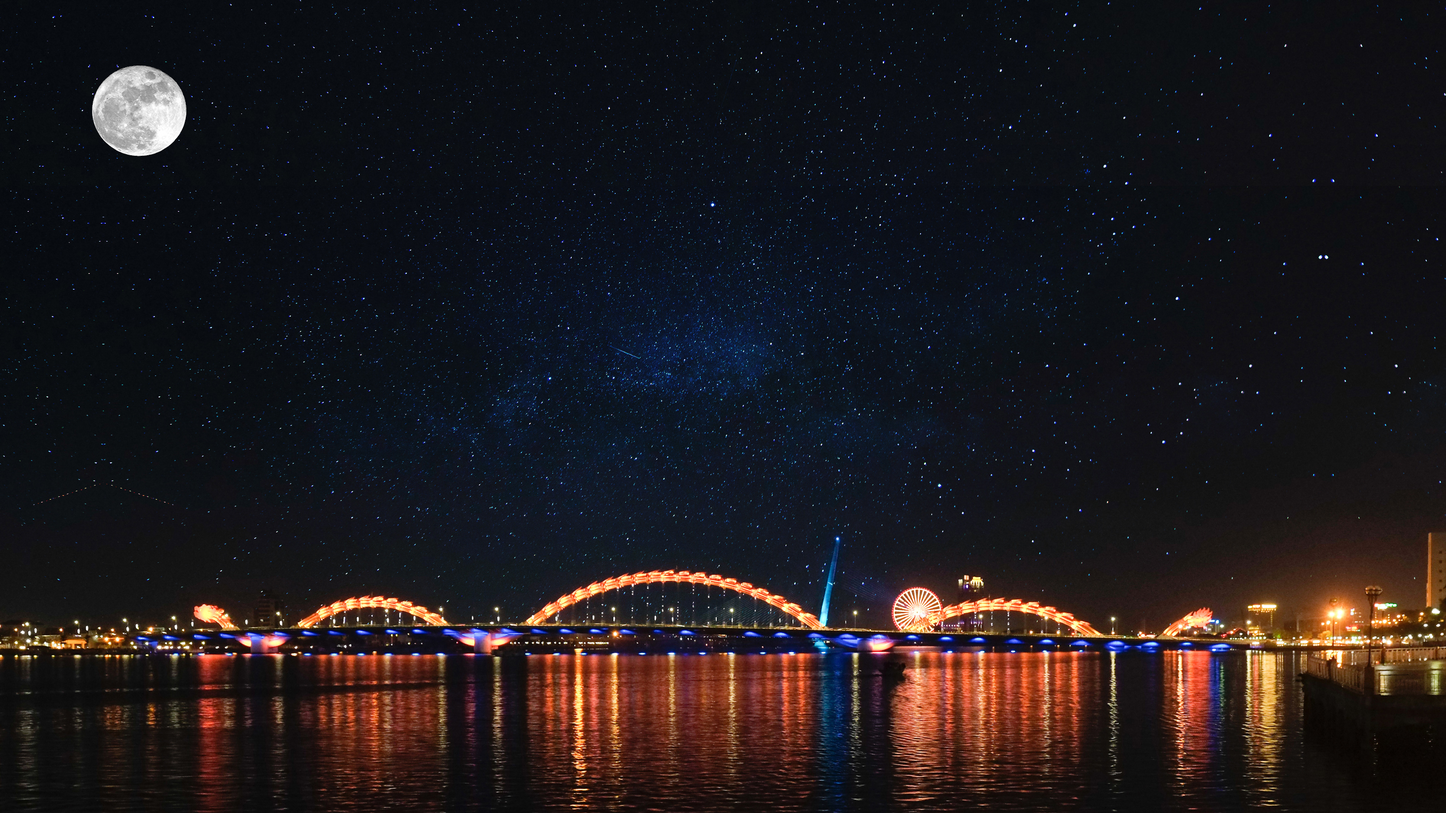
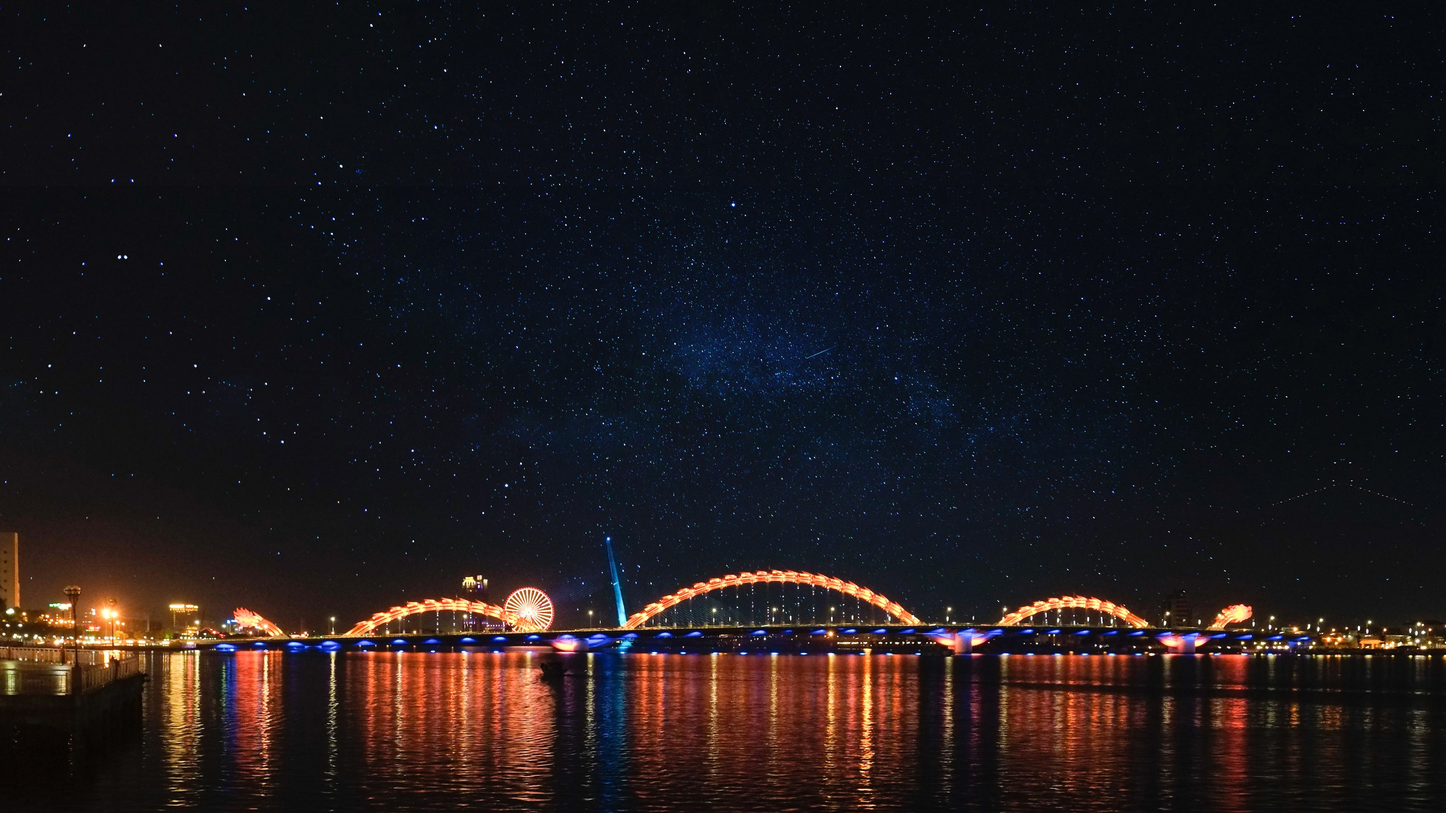
Add background

diff --git a/src/css/style.css b/src/css/style.css
@@ -328,6 +328,26 @@ body {
   transition-duration: 0.4s;
 }
 
+body {
+  background: url("./../img/background.jpg") center center / 100% 100% no-repeat;
+  z-index: 1;
+}
+
+img.moon {
+  height: 90px;
+  width: 90px;
+  position: absolute;
+  top: 80px;
+  left: 100px;
+}
+img.team {
+  height: 85%;
+  width: 45%;
+  position: absolute;
+  left: 90px;
+  margin-top: -20px;
+}
+
 /* Button Play */
 #btn-play-overflow {
   position: absolute;
@@ -401,18 +421,19 @@ body {
   height: 100%;
   width: 100%;
   margin-top: 100px;
-}
-#container-end p, .thanks {
   font-family: "Roboto Light";
 }
+
 #slide-end {
   float: right;
   width: 50%;
   text-align: center;
   color: white;
+  margin-top: 5em;
 }
 #slide-end h3{
-  font-size: 2em;
+  font-size: 2.5em;
+  font-weight: bold;
   color: yellow;
   margin-bottom: 25px;
 }
@@ -420,15 +441,15 @@ body {
   margin-bottom: 15px;
 }
 #slide-end h4{
-  font-size: 1em;
+  font-size: 1.2em;
   color: yellow;
 }
 #container-end .thanks{
-  font-size: 1em;
+  font-size: 1.2em;
   width: 80%;
   margin: 20px auto 0;
 }
 #container-end .content-after{
   margin-top: 30px;
-  font-size: 0.6em;
+  font-size: 0.8em;
 }

diff --git a/src/index.html b/src/index.html
@@ -18,7 +18,9 @@
 </head>
 
 <body>
+<img class='moon' src="./img/moon.png">
 <div style="display: none;"  id="container-end" class="animate-bottom">
+    <img class='team' src="./img/team.jpg">
     <div id="slide-end">
         <h3>Sound & Light</h3>
         <div class="content">
@@ -35,7 +37,7 @@
             <p>Nguyễn Đình Hòa</p>
             <p>Lê Doãn Thọ</p>
         </div>
-        <div class="thanks"><span>Cảm ơn các bạn đã đón xem. Nếu yêu thích, hãy <strong>like</strong> </br>và <strong>share</strong> để ủng hộ team nhé.</span></div>
+        <div class="thanks"><span>Thank you for watching.<br> If you like please like, share and comment for us!</span></div>
         <p class="content-after">Product by <b>White Hole Team</b></p>
     </div>
 </div>
@@ -69,7 +71,7 @@
 </div>
 
 <!-- App -->
-<div class="container">
+<div id="main-container" class="container">
     <div class="loading-init">
         <div class="loading-init__header">Loading</div>
         <div class="loading-init__status">White Hole Team</div>

diff --git a/src/js/firework.js b/src/js/firework.js
@@ -1494,10 +1494,7 @@ function colorSky(speed) {
 	currentSkyColor.b += (targetSkyColor.b - currentSkyColor.b) / colorChange * speed;
 	
 	appNodes.canvasContainer.style.backgroundColor = `rgb(${currentSkyColor.r | 0}, ${currentSkyColor.g | 0}, ${currentSkyColor.b | 0})`;
-	appNodes.canvasContainer.style.backgroundImage = `url("./img/background.jpg")`;
-	appNodes.canvasContainer.style.backgroundRepeat = `no-repeat`;
-	appNodes.canvasContainer.style.backgroundSize = `100% 100%`;
-	appNodes.canvasContainer.style.backgroundPosition = `center`;
+	appNodes.canvasContainer.style.background = 'none';
 }
 
 mainStage.addEventListener('ticker', update);

diff --git a/src/js/index.js b/src/js/index.js
@@ -35,11 +35,13 @@ function initAll() {
         // setCoordsFire(0, 0)
 
         // Load fireworks
-        music3();
+        // music3();
 
         // Music 3, 4
         // end();
-        document.getElementById("container-end").style.display = "block";
+
+
+        // document.getElementById("container-end").style.display = "block";
     }
 }
 
